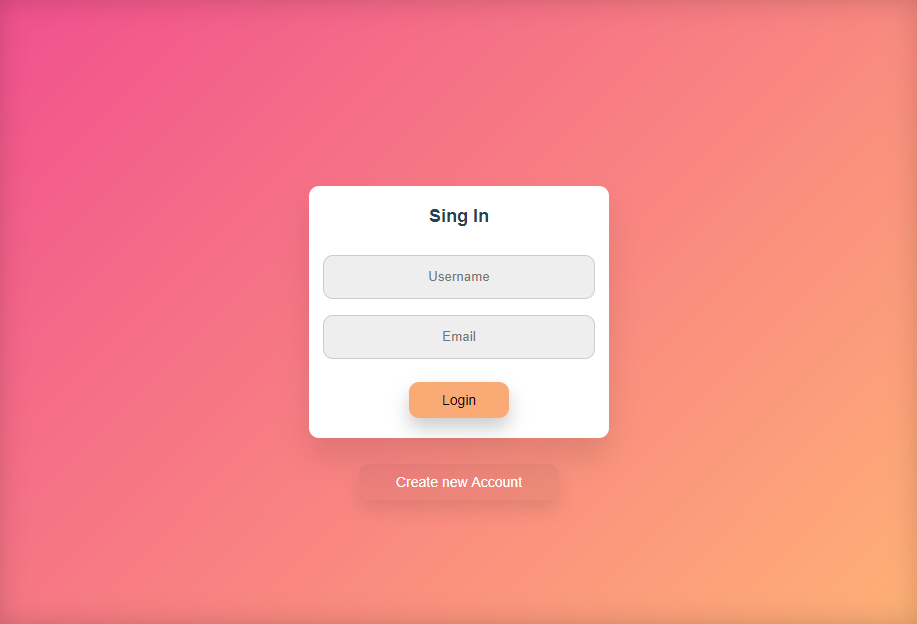
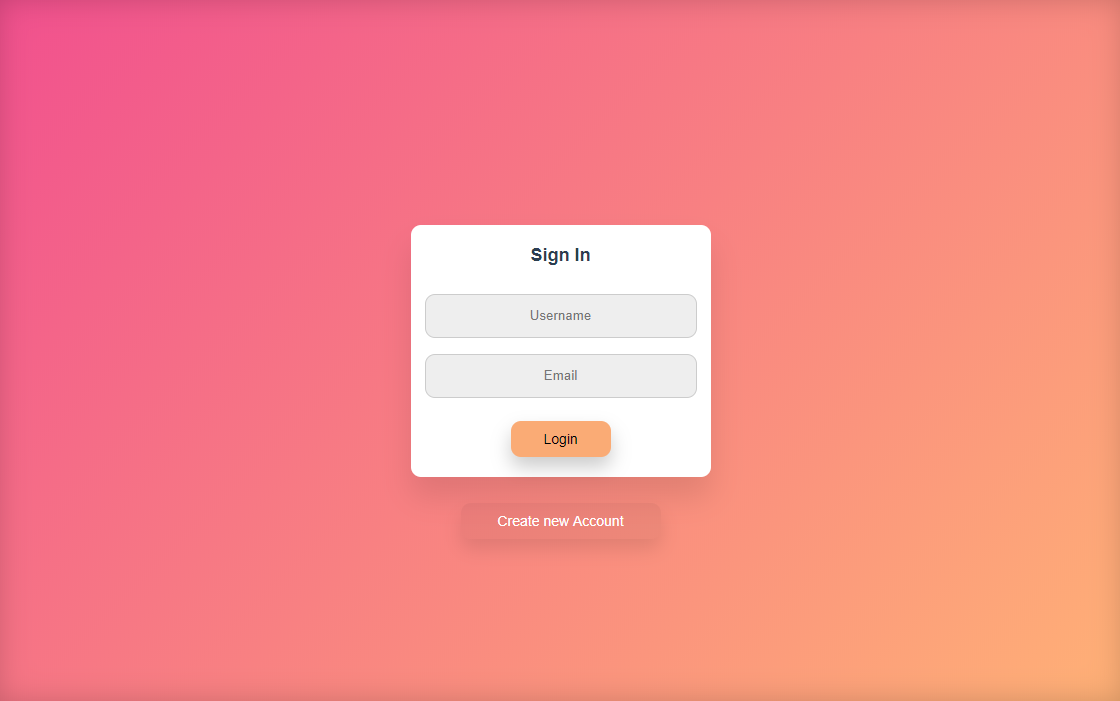
..

Changed region(s): [[0.3359, 0.274, 0.6718, 0.7003], [0.4275, 0.7308, 0.5802, 0.7917], [0.4885, 0.5176, 0.5191, 0.5481]]

diff --git a/src/router/Singup.vue b/src/router/Singup.vue
@@ -1,13 +1,13 @@
 <template>
   <div id="singup">
-    <div class='title'>Sing Up</div>
+    <div class='title'>Sign Up</div>
     <div class="body">
       <input v-model="username" type="text" placeholder="Username" class="user textbox"></input>
       <input v-model="email" type="text" placeholder="Email" class="user textbox"></input>
       <input v-model="password" type="password" placeholder="Password" class="pass textbox"></input>
       <input v-model="reenterPassword" type="password" placeholder="Renter Password" class="pass textbox"></input>
     </div>
-    <div class="btn" v-on:click="submit">Singup</div>
+    <div class="btn" v-on:click="submit">Go</div>
     <div class="new" v-on:click="backSingin">Back to Login</div>
   </div>
 </template>

diff --git a/src/router/Login.vue b/src/router/Login.vue
@@ -1,6 +1,6 @@
 <template>
   <div id="login">
-    <div class='title'>Sing In</div>
+    <div class='title'>Sign In</div>
     <div class="body">
       <input v-model="username" type="text" placeholder="Username" class="user textbox"></input>
       <input v-model="email" type="text" placeholder="Email" class="user textbox"></input>
